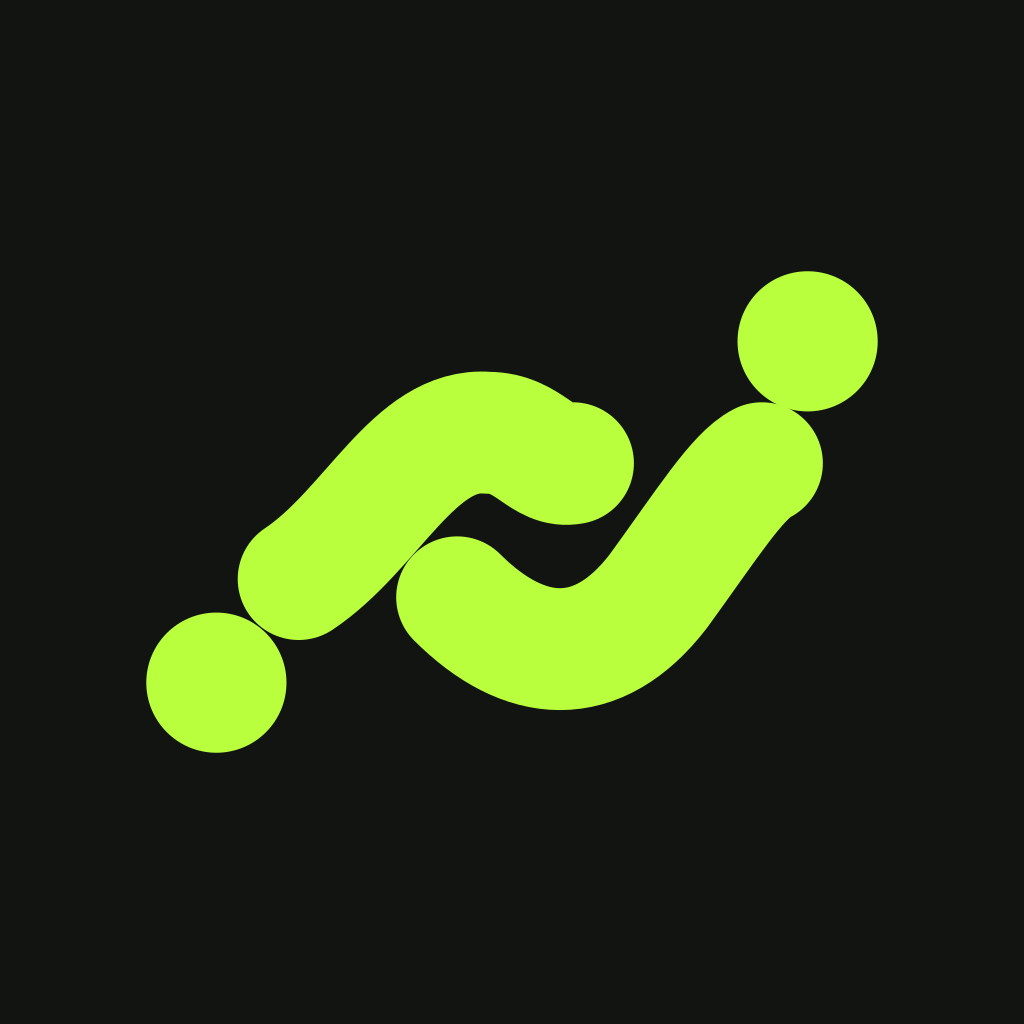
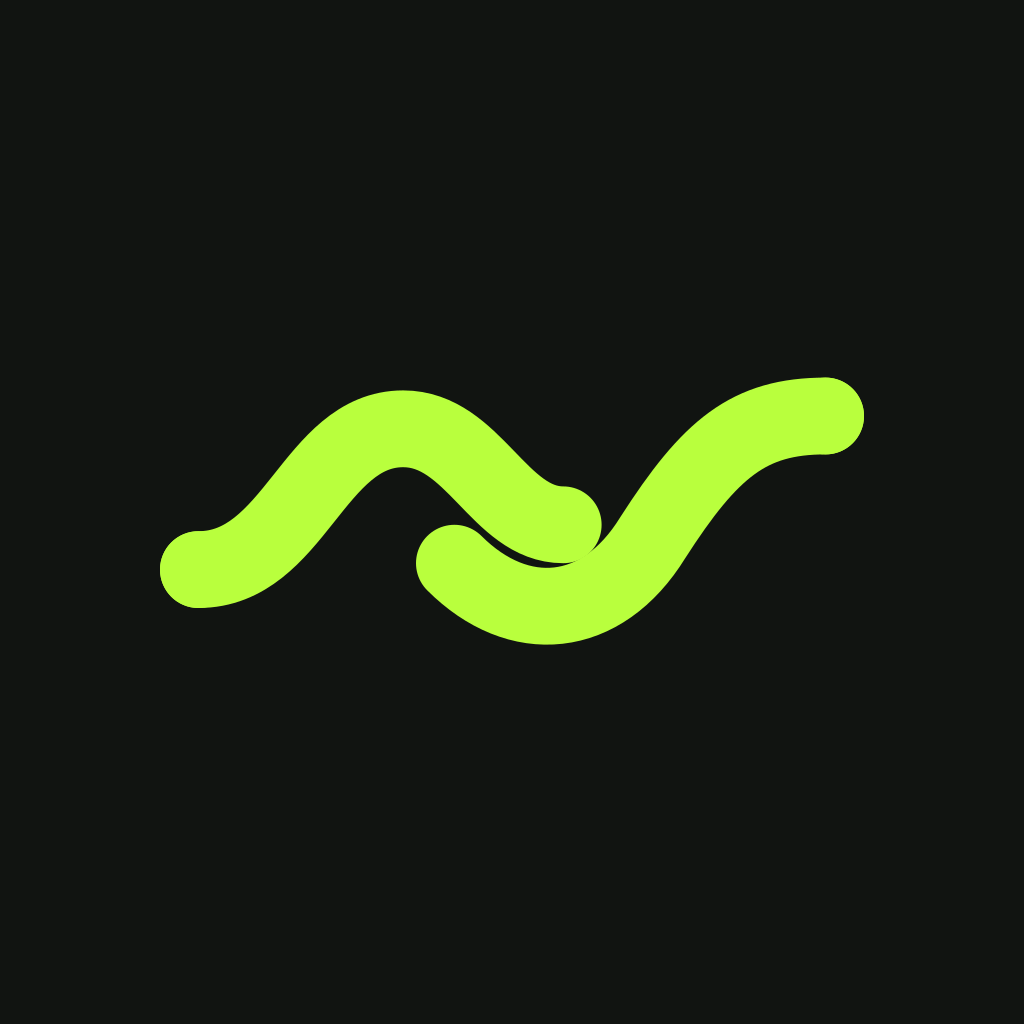
feat(brand): regenerate linked motion assets

Changed region(s): [[0.125, 0.25, 0.875, 0.75]]

diff --git a/accountability-app/src/ui/brandGeometry.test.ts b/accountability-app/src/ui/brandGeometry.test.ts
@@ -577,6 +577,9 @@ describe('Mantle brand geometry contract', () => {
       "new URL('../node_modules/@expo-google-fonts/sora/700Bold/Sora_700Bold.ttf', import.meta.url)",
     );
     expect(generator).toContain('.composite([');
+    expect(generator).toContain(
+      '<g transform="translate(18 20) scale(2.15)">',
+    );
     expect(generator).not.toContain('@font-face');
     expect(generator).not.toContain('data:font');
   });
@@ -719,8 +722,8 @@ describe('Mantle brand geometry contract', () => {
       expect(meaningful.bounds.top).toBeGreaterThanOrEqual(1);
       expect(meaningful.bounds.right).toBeGreaterThanOrEqual(1);
       expect(meaningful.bounds.bottom).toBeGreaterThanOrEqual(1);
-      expect(meaningful.bounds.width).toBeGreaterThan(size * 0.7);
-      expect(meaningful.bounds.height).toBeGreaterThan(size * 0.45);
+      expect(meaningful.bounds.width).toBeGreaterThan(size * 0.68);
+      expect(meaningful.bounds.height).toBeGreaterThan(size * 0.26);
       expect(meaningful.leftNodePixels).toBeGreaterThan(1);
       expect(meaningful.rightNodePixels).toBeGreaterThan(1);
     },
